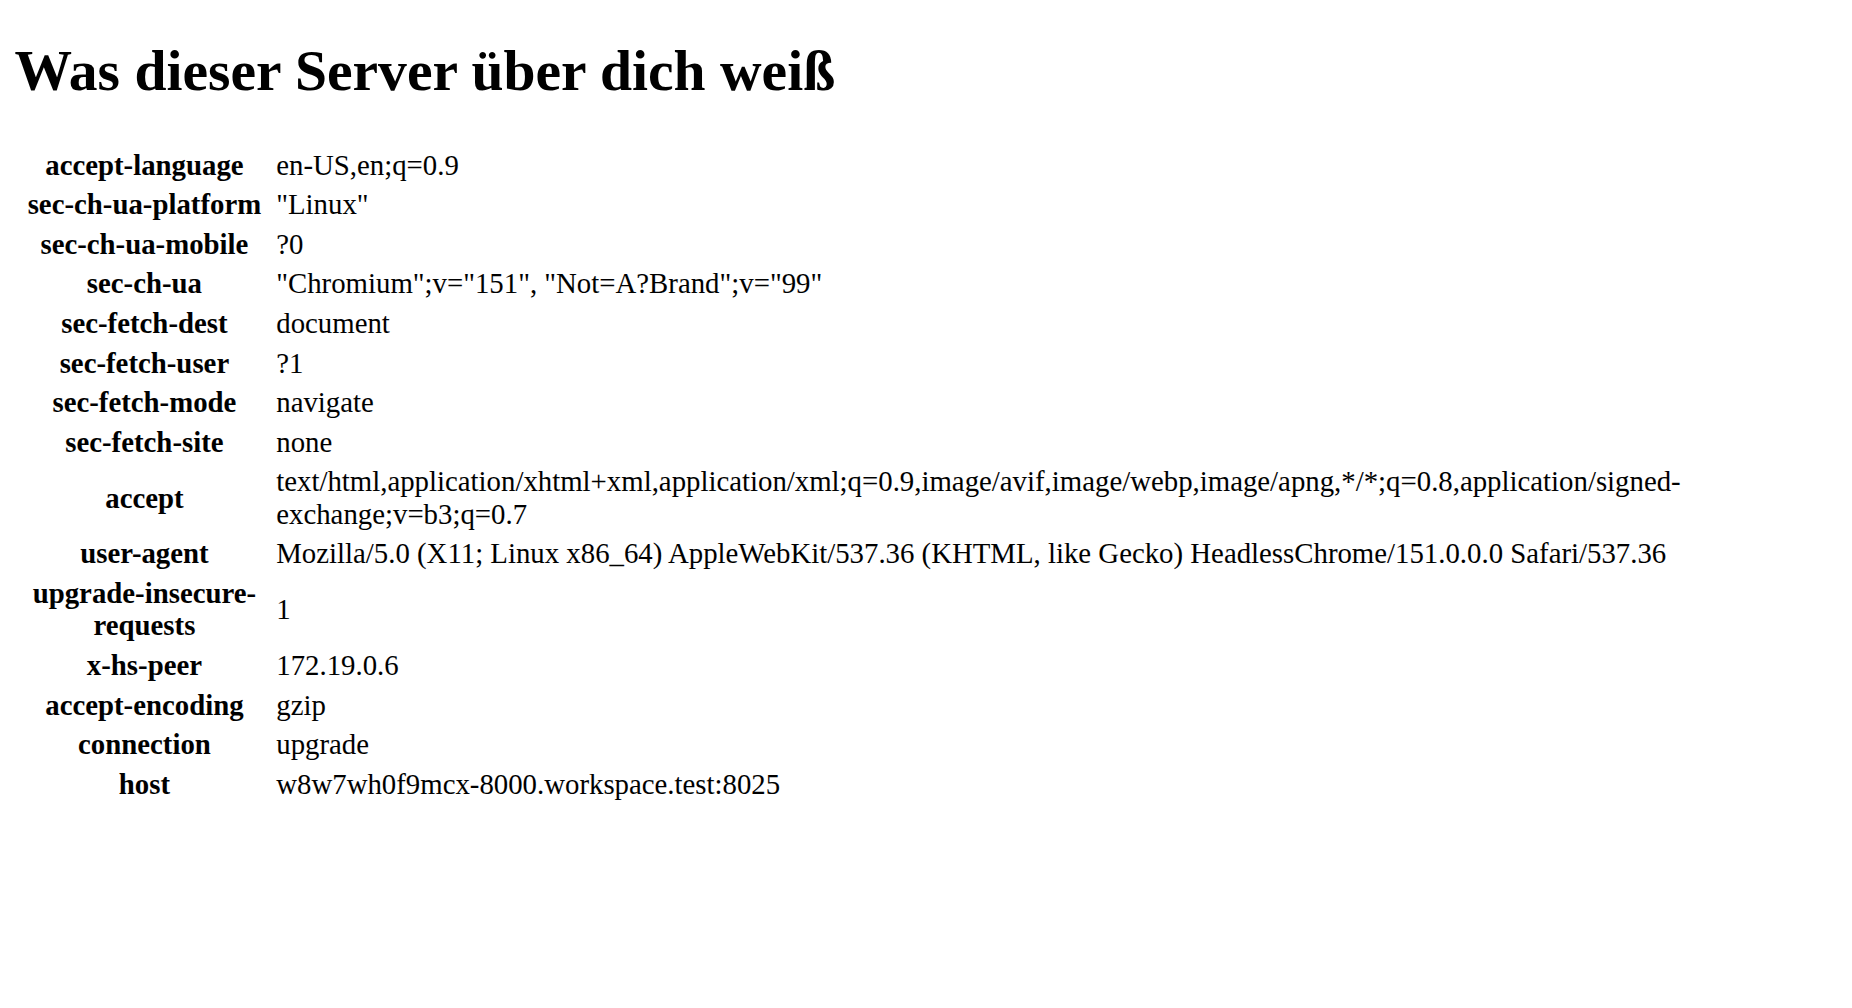
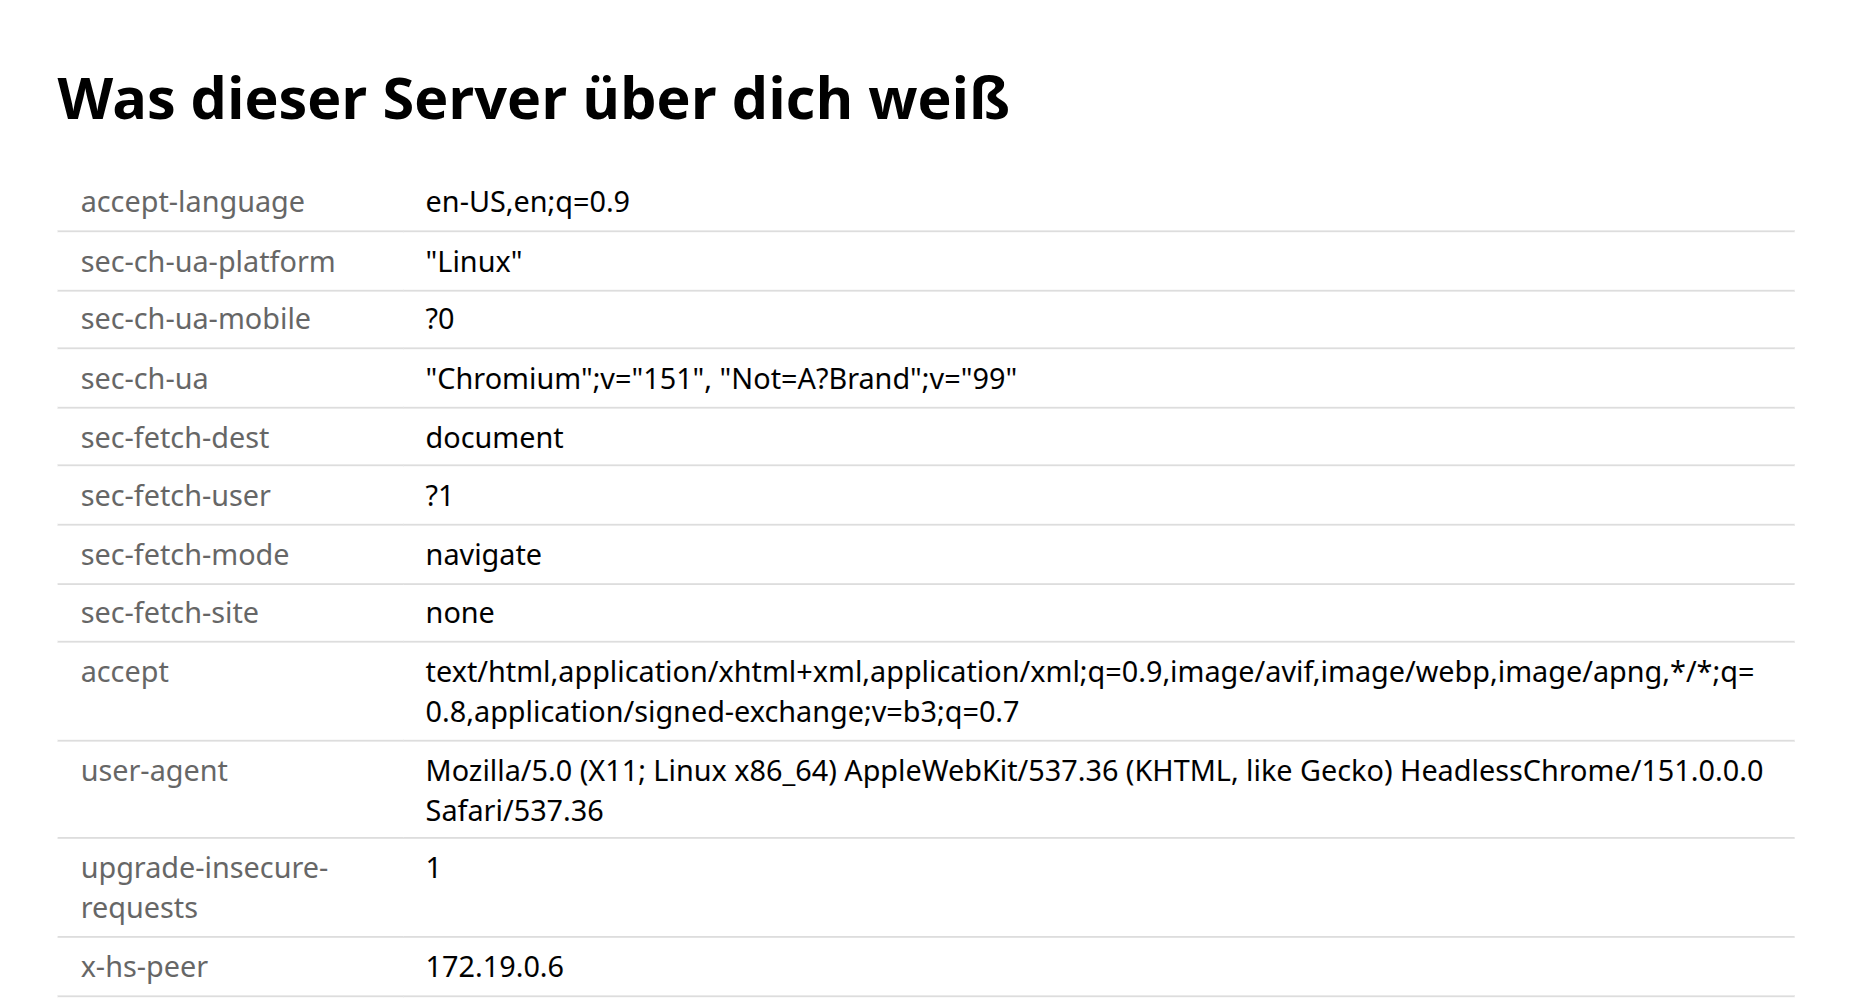
Tracker pages: one plain STYLE for every version (one font, cells top-aligned, row lines, long values wrap), the Kennung without a code font, screenshots recreated

diff --git a/src/content/tracking/fehler/alle-besuche.py b/src/content/tracking/fehler/alle-besuche.py
@@ -32,10 +32,18 @@ def h(text):
     return html.escape(str(text if text is not None else ''))
 
 
+# Ein wenig CSS, damit die Seiten lesbar sind
+STYLE = ('<style>body { font-family: system-ui, sans-serif; margin: 2em; }\n'
+         'table { border-collapse: collapse; }\n'
+         'th, td { padding: 0.3em 0.8em; border-bottom: 1px solid #ddd; text-align: left; vertical-align: top; }\n'
+         'th { color: #666; font-weight: normal; }\n'
+         'td { word-break: break-all; }</style>\n')
+
+
 def headers_page(headers):
     """Die Seite unter /: alle Header, die der Browser geschickt hat"""
     rows = '\n'.join(f'<tr><th>{h(name)}</th><td>{h(value)}</td></tr>' for name, value in headers.items())
-    return ("<!DOCTYPE html><meta charset='utf-8'><title>Was ich über dich weiß</title>\n"
+    return ("<!DOCTYPE html><meta charset='utf-8'><title>Was ich über dich weiß</title>\n" + STYLE +
             f'<h1>Was dieser Server über dich weiß</h1>\n<table>\n{rows}\n</table>\n')
 
 
@@ -84,9 +92,9 @@ def profile_page(visitor, visits, counts, headers):
     pages = '\n'.join(f'<li>{h(page)}</li>' for page, keywords in visits)
     top = sorted(counts.items(), key=lambda pair: -pair[1])[:5]
     interests = '\n'.join(f'<li>{h(keyword)} ({count})</li>' for keyword, count in top)
-    return ("<!DOCTYPE html><meta charset='utf-8'><title>Dein Profil</title>\n"
+    return ("<!DOCTYPE html><meta charset='utf-8'><title>Dein Profil</title>\n" + STYLE +
             '<h1>Dein Profil</h1>\n'
-            f"<p>Deine Kennung: <code>{h(visitor or 'keine')}</code></p>\n"
+            f"<p>Deine Kennung: {h(visitor or 'keine')}</p>\n"
             f"<p>Dein Browser: {h(headers.get('user-agent'))}<br>Deine Sprache: {h(headers.get('accept-language'))}</p>\n"
             f'<h2>Seiten, auf denen du warst</h2>\n<ol>\n{pages}\n</ol>\n'
             f'<h2>Was dich vermutlich interessiert</h2>\n<ol>\n{interests}\n</ol>\n')

diff --git a/src/content/tracking/fehler/jedes-gleichheitszeichen.py b/src/content/tracking/fehler/jedes-gleichheitszeichen.py
@@ -32,10 +32,18 @@ def h(text):
     return html.escape(str(text if text is not None else ''))
 
 
+# Ein wenig CSS, damit die Seiten lesbar sind
+STYLE = ('<style>body { font-family: system-ui, sans-serif; margin: 2em; }\n'
+         'table { border-collapse: collapse; }\n'
+         'th, td { padding: 0.3em 0.8em; border-bottom: 1px solid #ddd; text-align: left; vertical-align: top; }\n'
+         'th { color: #666; font-weight: normal; }\n'
+         'td { word-break: break-all; }</style>\n')
+
+
 def headers_page(headers):
     """Die Seite unter /: alle Header, die der Browser geschickt hat"""
     rows = '\n'.join(f'<tr><th>{h(name)}</th><td>{h(value)}</td></tr>' for name, value in headers.items())
-    return ("<!DOCTYPE html><meta charset='utf-8'><title>Was ich über dich weiß</title>\n"
+    return ("<!DOCTYPE html><meta charset='utf-8'><title>Was ich über dich weiß</title>\n" + STYLE +
             f'<h1>Was dieser Server über dich weiß</h1>\n<table>\n{rows}\n</table>\n')
 
 
@@ -84,9 +92,9 @@ def profile_page(visitor, visits, counts, headers):
     pages = '\n'.join(f'<li>{h(page)}</li>' for page, keywords in visits)
     top = sorted(counts.items(), key=lambda pair: -pair[1])[:5]
     interests = '\n'.join(f'<li>{h(keyword)} ({count})</li>' for keyword, count in top)
-    return ("<!DOCTYPE html><meta charset='utf-8'><title>Dein Profil</title>\n"
+    return ("<!DOCTYPE html><meta charset='utf-8'><title>Dein Profil</title>\n" + STYLE +
             '<h1>Dein Profil</h1>\n'
-            f"<p>Deine Kennung: <code>{h(visitor or 'keine')}</code></p>\n"
+            f"<p>Deine Kennung: {h(visitor or 'keine')}</p>\n"
             f"<p>Dein Browser: {h(headers.get('user-agent'))}<br>Deine Sprache: {h(headers.get('accept-language'))}</p>\n"
             f'<h2>Seiten, auf denen du warst</h2>\n<ol>\n{pages}\n</ol>\n'
             f'<h2>Was dich vermutlich interessiert</h2>\n<ol>\n{interests}\n</ol>\n')

diff --git a/src/content/tracking/fehler/leerzeichen-im-namen.py b/src/content/tracking/fehler/leerzeichen-im-namen.py
@@ -32,10 +32,18 @@ def h(text):
     return html.escape(str(text if text is not None else ''))
 
 
+# Ein wenig CSS, damit die Seiten lesbar sind
+STYLE = ('<style>body { font-family: system-ui, sans-serif; margin: 2em; }\n'
+         'table { border-collapse: collapse; }\n'
+         'th, td { padding: 0.3em 0.8em; border-bottom: 1px solid #ddd; text-align: left; vertical-align: top; }\n'
+         'th { color: #666; font-weight: normal; }\n'
+         'td { word-break: break-all; }</style>\n')
+
+
 def headers_page(headers):
     """Die Seite unter /: alle Header, die der Browser geschickt hat"""
     rows = '\n'.join(f'<tr><th>{h(name)}</th><td>{h(value)}</td></tr>' for name, value in headers.items())
-    return ("<!DOCTYPE html><meta charset='utf-8'><title>Was ich über dich weiß</title>\n"
+    return ("<!DOCTYPE html><meta charset='utf-8'><title>Was ich über dich weiß</title>\n" + STYLE +
             f'<h1>Was dieser Server über dich weiß</h1>\n<table>\n{rows}\n</table>\n')
 
 
@@ -84,9 +92,9 @@ def profile_page(visitor, visits, counts, headers):
     pages = '\n'.join(f'<li>{h(page)}</li>' for page, keywords in visits)
     top = sorted(counts.items(), key=lambda pair: -pair[1])[:5]
     interests = '\n'.join(f'<li>{h(keyword)} ({count})</li>' for keyword, count in top)
-    return ("<!DOCTYPE html><meta charset='utf-8'><title>Dein Profil</title>\n"
+    return ("<!DOCTYPE html><meta charset='utf-8'><title>Dein Profil</title>\n" + STYLE +
             '<h1>Dein Profil</h1>\n'
-            f"<p>Deine Kennung: <code>{h(visitor or 'keine')}</code></p>\n"
+            f"<p>Deine Kennung: {h(visitor or 'keine')}</p>\n"
             f"<p>Dein Browser: {h(headers.get('user-agent'))}<br>Deine Sprache: {h(headers.get('accept-language'))}</p>\n"
             f'<h2>Seiten, auf denen du warst</h2>\n<ol>\n{pages}\n</ol>\n'
             f'<h2>Was dich vermutlich interessiert</h2>\n<ol>\n{interests}\n</ol>\n')

diff --git a/src/content/tracking/fehler/ohne-strip.py b/src/content/tracking/fehler/ohne-strip.py
@@ -32,10 +32,18 @@ def h(text):
     return html.escape(str(text if text is not None else ''))
 
 
+# Ein wenig CSS, damit die Seiten lesbar sind
+STYLE = ('<style>body { font-family: system-ui, sans-serif; margin: 2em; }\n'
+         'table { border-collapse: collapse; }\n'
+         'th, td { padding: 0.3em 0.8em; border-bottom: 1px solid #ddd; text-align: left; vertical-align: top; }\n'
+         'th { color: #666; font-weight: normal; }\n'
+         'td { word-break: break-all; }</style>\n')
+
+
 def headers_page(headers):
     """Die Seite unter /: alle Header, die der Browser geschickt hat"""
     rows = '\n'.join(f'<tr><th>{h(name)}</th><td>{h(value)}</td></tr>' for name, value in headers.items())
-    return ("<!DOCTYPE html><meta charset='utf-8'><title>Was ich über dich weiß</title>\n"
+    return ("<!DOCTYPE html><meta charset='utf-8'><title>Was ich über dich weiß</title>\n" + STYLE +
             f'<h1>Was dieser Server über dich weiß</h1>\n<table>\n{rows}\n</table>\n')
 
 
@@ -83,9 +91,9 @@ def profile_page(visitor, visits, counts, headers):
     pages = '\n'.join(f'<li>{h(page)}</li>' for page, keywords in visits)
     top = sorted(counts.items(), key=lambda pair: -pair[1])[:5]
     interests = '\n'.join(f'<li>{h(keyword)} ({count})</li>' for keyword, count in top)
-    return ("<!DOCTYPE html><meta charset='utf-8'><title>Dein Profil</title>\n"
+    return ("<!DOCTYPE html><meta charset='utf-8'><title>Dein Profil</title>\n" + STYLE +
             '<h1>Dein Profil</h1>\n'
-            f"<p>Deine Kennung: <code>{h(visitor or 'keine')}</code></p>\n"
+            f"<p>Deine Kennung: {h(visitor or 'keine')}</p>\n"
             f"<p>Dein Browser: {h(headers.get('user-agent'))}<br>Deine Sprache: {h(headers.get('accept-language'))}</p>\n"
             f'<h2>Seiten, auf denen du warst</h2>\n<ol>\n{pages}\n</ol>\n'
             f'<h2>Was dich vermutlich interessiert</h2>\n<ol>\n{interests}\n</ol>\n')

diff --git a/src/content/tracking/loesung/tracker.py b/src/content/tracking/loesung/tracker.py
@@ -32,10 +32,18 @@ def h(text):
     return html.escape(str(text if text is not None else ''))
 
 
+# Ein wenig CSS, damit die Seiten lesbar sind
+STYLE = ('<style>body { font-family: system-ui, sans-serif; margin: 2em; }\n'
+         'table { border-collapse: collapse; }\n'
+         'th, td { padding: 0.3em 0.8em; border-bottom: 1px solid #ddd; text-align: left; vertical-align: top; }\n'
+         'th { color: #666; font-weight: normal; }\n'
+         'td { word-break: break-all; }</style>\n')
+
+
 def headers_page(headers):
     """Die Seite unter /: alle Header, die der Browser geschickt hat"""
     rows = '\n'.join(f'<tr><th>{h(name)}</th><td>{h(value)}</td></tr>' for name, value in headers.items())
-    return ("<!DOCTYPE html><meta charset='utf-8'><title>Was ich über dich weiß</title>\n"
+    return ("<!DOCTYPE html><meta charset='utf-8'><title>Was ich über dich weiß</title>\n" + STYLE +
             f'<h1>Was dieser Server über dich weiß</h1>\n<table>\n{rows}\n</table>\n')
 
 
@@ -84,9 +92,9 @@ def profile_page(visitor, visits, counts, headers):
     pages = '\n'.join(f'<li>{h(page)}</li>' for page, keywords in visits)
     top = sorted(counts.items(), key=lambda pair: -pair[1])[:5]
     interests = '\n'.join(f'<li>{h(keyword)} ({count})</li>' for keyword, count in top)
-    return ("<!DOCTYPE html><meta charset='utf-8'><title>Dein Profil</title>\n"
+    return ("<!DOCTYPE html><meta charset='utf-8'><title>Dein Profil</title>\n" + STYLE +
             '<h1>Dein Profil</h1>\n'
-            f"<p>Deine Kennung: <code>{h(visitor or 'keine')}</code></p>\n"
+            f"<p>Deine Kennung: {h(visitor or 'keine')}</p>\n"
             f"<p>Dein Browser: {h(headers.get('user-agent'))}<br>Deine Sprache: {h(headers.get('accept-language'))}</p>\n"
             f'<h2>Seiten, auf denen du warst</h2>\n<ol>\n{pages}\n</ol>\n'
             f'<h2>Was dich vermutlich interessiert</h2>\n<ol>\n{interests}\n</ol>\n')

diff --git a/src/content/tracking/fehler/alle-besuche.rb b/src/content/tracking/fehler/alle-besuche.rb
@@ -27,10 +27,17 @@ def h(text)
   CGI.escapeHTML(text.to_s)
 end
 
+# Ein wenig CSS, damit die Seiten lesbar sind
+STYLE = "<style>body { font-family: system-ui, sans-serif; margin: 2em; }\n" \
+        "table { border-collapse: collapse; }\n" \
+        "th, td { padding: 0.3em 0.8em; border-bottom: 1px solid #ddd; text-align: left; vertical-align: top; }\n" \
+        "th { color: #666; font-weight: normal; }\n" \
+        "td { word-break: break-all; }</style>\n"
+
 # Die Seite unter /: alle Header, die der Browser geschickt hat
 def headers_page(headers)
   rows = headers.map { |name, value| "<tr><th>#{h(name)}</th><td>#{h(value)}</td></tr>" }
-  "<!DOCTYPE html><meta charset='utf-8'><title>Was ich über dich weiß</title>\n" \
+  "<!DOCTYPE html><meta charset='utf-8'><title>Was ich über dich weiß</title>\n#{STYLE}" \
     "<h1>Was dieser Server über dich weiß</h1>\n<table>\n#{rows.join("\n")}\n</table>\n"
 end
 
@@ -81,9 +88,9 @@ def profile_page(visitor, visits, counts, headers)
   interests = counts.sort_by { |keyword, count| -count }.first(5).map do |keyword, count|
     "<li>#{h(keyword)} (#{count})</li>"
   end
-  "<!DOCTYPE html><meta charset='utf-8'><title>Dein Profil</title>\n" \
+  "<!DOCTYPE html><meta charset='utf-8'><title>Dein Profil</title>\n#{STYLE}" \
     "<h1>Dein Profil</h1>\n" \
-    "<p>Deine Kennung: <code>#{h(visitor || 'keine')}</code></p>\n" \
+    "<p>Deine Kennung: #{h(visitor || 'keine')}</p>\n" \
     "<p>Dein Browser: #{h(headers['user-agent'])}<br>Deine Sprache: #{h(headers['accept-language'])}</p>\n" \
     "<h2>Seiten, auf denen du warst</h2>\n<ol>\n#{pages.join("\n")}\n</ol>\n" \
     "<h2>Was dich vermutlich interessiert</h2>\n<ol>\n#{interests.join("\n")}\n</ol>\n"

diff --git a/src/content/tracking/fehler/jedes-gleichheitszeichen.rb b/src/content/tracking/fehler/jedes-gleichheitszeichen.rb
@@ -27,10 +27,17 @@ def h(text)
   CGI.escapeHTML(text.to_s)
 end
 
+# Ein wenig CSS, damit die Seiten lesbar sind
+STYLE = "<style>body { font-family: system-ui, sans-serif; margin: 2em; }\n" \
+        "table { border-collapse: collapse; }\n" \
+        "th, td { padding: 0.3em 0.8em; border-bottom: 1px solid #ddd; text-align: left; vertical-align: top; }\n" \
+        "th { color: #666; font-weight: normal; }\n" \
+        "td { word-break: break-all; }</style>\n"
+
 # Die Seite unter /: alle Header, die der Browser geschickt hat
 def headers_page(headers)
   rows = headers.map { |name, value| "<tr><th>#{h(name)}</th><td>#{h(value)}</td></tr>" }
-  "<!DOCTYPE html><meta charset='utf-8'><title>Was ich über dich weiß</title>\n" \
+  "<!DOCTYPE html><meta charset='utf-8'><title>Was ich über dich weiß</title>\n#{STYLE}" \
     "<h1>Was dieser Server über dich weiß</h1>\n<table>\n#{rows.join("\n")}\n</table>\n"
 end
 
@@ -81,9 +88,9 @@ def profile_page(visitor, visits, counts, headers)
   interests = counts.sort_by { |keyword, count| -count }.first(5).map do |keyword, count|
     "<li>#{h(keyword)} (#{count})</li>"
   end
-  "<!DOCTYPE html><meta charset='utf-8'><title>Dein Profil</title>\n" \
+  "<!DOCTYPE html><meta charset='utf-8'><title>Dein Profil</title>\n#{STYLE}" \
     "<h1>Dein Profil</h1>\n" \
-    "<p>Deine Kennung: <code>#{h(visitor || 'keine')}</code></p>\n" \
+    "<p>Deine Kennung: #{h(visitor || 'keine')}</p>\n" \
     "<p>Dein Browser: #{h(headers['user-agent'])}<br>Deine Sprache: #{h(headers['accept-language'])}</p>\n" \
     "<h2>Seiten, auf denen du warst</h2>\n<ol>\n#{pages.join("\n")}\n</ol>\n" \
     "<h2>Was dich vermutlich interessiert</h2>\n<ol>\n#{interests.join("\n")}\n</ol>\n"

diff --git a/src/content/tracking/fehler/leerzeichen-im-namen.rb b/src/content/tracking/fehler/leerzeichen-im-namen.rb
@@ -27,10 +27,17 @@ def h(text)
   CGI.escapeHTML(text.to_s)
 end
 
+# Ein wenig CSS, damit die Seiten lesbar sind
+STYLE = "<style>body { font-family: system-ui, sans-serif; margin: 2em; }\n" \
+        "table { border-collapse: collapse; }\n" \
+        "th, td { padding: 0.3em 0.8em; border-bottom: 1px solid #ddd; text-align: left; vertical-align: top; }\n" \
+        "th { color: #666; font-weight: normal; }\n" \
+        "td { word-break: break-all; }</style>\n"
+
 # Die Seite unter /: alle Header, die der Browser geschickt hat
 def headers_page(headers)
   rows = headers.map { |name, value| "<tr><th>#{h(name)}</th><td>#{h(value)}</td></tr>" }
-  "<!DOCTYPE html><meta charset='utf-8'><title>Was ich über dich weiß</title>\n" \
+  "<!DOCTYPE html><meta charset='utf-8'><title>Was ich über dich weiß</title>\n#{STYLE}" \
     "<h1>Was dieser Server über dich weiß</h1>\n<table>\n#{rows.join("\n")}\n</table>\n"
 end
 
@@ -81,9 +88,9 @@ def profile_page(visitor, visits, counts, headers)
   interests = counts.sort_by { |keyword, count| -count }.first(5).map do |keyword, count|
     "<li>#{h(keyword)} (#{count})</li>"
   end
-  "<!DOCTYPE html><meta charset='utf-8'><title>Dein Profil</title>\n" \
+  "<!DOCTYPE html><meta charset='utf-8'><title>Dein Profil</title>\n#{STYLE}" \
     "<h1>Dein Profil</h1>\n" \
-    "<p>Deine Kennung: <code>#{h(visitor || 'keine')}</code></p>\n" \
+    "<p>Deine Kennung: #{h(visitor || 'keine')}</p>\n" \
     "<p>Dein Browser: #{h(headers['user-agent'])}<br>Deine Sprache: #{h(headers['accept-language'])}</p>\n" \
     "<h2>Seiten, auf denen du warst</h2>\n<ol>\n#{pages.join("\n")}\n</ol>\n" \
     "<h2>Was dich vermutlich interessiert</h2>\n<ol>\n#{interests.join("\n")}\n</ol>\n"

diff --git a/src/content/tracking/fehler/ohne-strip.rb b/src/content/tracking/fehler/ohne-strip.rb
@@ -27,10 +27,17 @@ def h(text)
   CGI.escapeHTML(text.to_s)
 end
 
+# Ein wenig CSS, damit die Seiten lesbar sind
+STYLE = "<style>body { font-family: system-ui, sans-serif; margin: 2em; }\n" \
+        "table { border-collapse: collapse; }\n" \
+        "th, td { padding: 0.3em 0.8em; border-bottom: 1px solid #ddd; text-align: left; vertical-align: top; }\n" \
+        "th { color: #666; font-weight: normal; }\n" \
+        "td { word-break: break-all; }</style>\n"
+
 # Die Seite unter /: alle Header, die der Browser geschickt hat
 def headers_page(headers)
   rows = headers.map { |name, value| "<tr><th>#{h(name)}</th><td>#{h(value)}</td></tr>" }
-  "<!DOCTYPE html><meta charset='utf-8'><title>Was ich über dich weiß</title>\n" \
+  "<!DOCTYPE html><meta charset='utf-8'><title>Was ich über dich weiß</title>\n#{STYLE}" \
     "<h1>Was dieser Server über dich weiß</h1>\n<table>\n#{rows.join("\n")}\n</table>\n"
 end
 
@@ -80,9 +87,9 @@ def profile_page(visitor, visits, counts, headers)
   interests = counts.sort_by { |keyword, count| -count }.first(5).map do |keyword, count|
     "<li>#{h(keyword)} (#{count})</li>"
   end
-  "<!DOCTYPE html><meta charset='utf-8'><title>Dein Profil</title>\n" \
+  "<!DOCTYPE html><meta charset='utf-8'><title>Dein Profil</title>\n#{STYLE}" \
     "<h1>Dein Profil</h1>\n" \
-    "<p>Deine Kennung: <code>#{h(visitor || 'keine')}</code></p>\n" \
+    "<p>Deine Kennung: #{h(visitor || 'keine')}</p>\n" \
     "<p>Dein Browser: #{h(headers['user-agent'])}<br>Deine Sprache: #{h(headers['accept-language'])}</p>\n" \
     "<h2>Seiten, auf denen du warst</h2>\n<ol>\n#{pages.join("\n")}\n</ol>\n" \
     "<h2>Was dich vermutlich interessiert</h2>\n<ol>\n#{interests.join("\n")}\n</ol>\n"

diff --git a/src/content/tracking/loesung/tracker.rb b/src/content/tracking/loesung/tracker.rb
@@ -27,10 +27,17 @@ def h(text)
   CGI.escapeHTML(text.to_s)
 end
 
+# Ein wenig CSS, damit die Seiten lesbar sind
+STYLE = "<style>body { font-family: system-ui, sans-serif; margin: 2em; }\n" \
+        "table { border-collapse: collapse; }\n" \
+        "th, td { padding: 0.3em 0.8em; border-bottom: 1px solid #ddd; text-align: left; vertical-align: top; }\n" \
+        "th { color: #666; font-weight: normal; }\n" \
+        "td { word-break: break-all; }</style>\n"
+
 # Die Seite unter /: alle Header, die der Browser geschickt hat
 def headers_page(headers)
   rows = headers.map { |name, value| "<tr><th>#{h(name)}</th><td>#{h(value)}</td></tr>" }
-  "<!DOCTYPE html><meta charset='utf-8'><title>Was ich über dich weiß</title>\n" \
+  "<!DOCTYPE html><meta charset='utf-8'><title>Was ich über dich weiß</title>\n#{STYLE}" \
     "<h1>Was dieser Server über dich weiß</h1>\n<table>\n#{rows.join("\n")}\n</table>\n"
 end
 
@@ -81,9 +88,9 @@ def profile_page(visitor, visits, counts, headers)
   interests = counts.sort_by { |keyword, count| -count }.first(5).map do |keyword, count|
     "<li>#{h(keyword)} (#{count})</li>"
   end
-  "<!DOCTYPE html><meta charset='utf-8'><title>Dein Profil</title>\n" \
+  "<!DOCTYPE html><meta charset='utf-8'><title>Dein Profil</title>\n#{STYLE}" \
     "<h1>Dein Profil</h1>\n" \
-    "<p>Deine Kennung: <code>#{h(visitor || 'keine')}</code></p>\n" \
+    "<p>Deine Kennung: #{h(visitor || 'keine')}</p>\n" \
     "<p>Dein Browser: #{h(headers['user-agent'])}<br>Deine Sprache: #{h(headers['accept-language'])}</p>\n" \
     "<h2>Seiten, auf denen du warst</h2>\n<ol>\n#{pages.join("\n")}\n</ol>\n" \
     "<h2>Was dich vermutlich interessiert</h2>\n<ol>\n#{interests.join("\n")}\n</ol>\n"

diff --git a/src/content/tracking/stufen/1.py b/src/content/tracking/stufen/1.py
@@ -21,10 +21,18 @@ def h(text):
     return html.escape(str(text if text is not None else ''))
 
 
+# Ein wenig CSS, damit die Seiten lesbar sind
+STYLE = ('<style>body { font-family: system-ui, sans-serif; margin: 2em; }\n'
+         'table { border-collapse: collapse; }\n'
+         'th, td { padding: 0.3em 0.8em; border-bottom: 1px solid #ddd; text-align: left; vertical-align: top; }\n'
+         'th { color: #666; font-weight: normal; }\n'
+         'td { word-break: break-all; }</style>\n')
+
+
 def headers_page(headers):
     """Die Seite unter /: alle Header, die der Browser geschickt hat"""
     rows = '\n'.join(f'<tr><th>{h(name)}</th><td>{h(value)}</td></tr>' for name, value in headers.items())
-    return ("<!DOCTYPE html><meta charset='utf-8'><title>Was ich über dich weiß</title>\n"
+    return ("<!DOCTYPE html><meta charset='utf-8'><title>Was ich über dich weiß</title>\n" + STYLE +
             f'<h1>Was dieser Server über dich weiß</h1>\n<table>\n{rows}\n</table>\n')
 
 

diff --git a/src/content/tracking/stufen/2.py b/src/content/tracking/stufen/2.py
@@ -31,10 +31,18 @@ def h(text):
     return html.escape(str(text if text is not None else ''))
 
 
+# Ein wenig CSS, damit die Seiten lesbar sind
+STYLE = ('<style>body { font-family: system-ui, sans-serif; margin: 2em; }\n'
+         'table { border-collapse: collapse; }\n'
+         'th, td { padding: 0.3em 0.8em; border-bottom: 1px solid #ddd; text-align: left; vertical-align: top; }\n'
+         'th { color: #666; font-weight: normal; }\n'
+         'td { word-break: break-all; }</style>\n')
+
+
 def headers_page(headers):
     """Die Seite unter /: alle Header, die der Browser geschickt hat"""
     rows = '\n'.join(f'<tr><th>{h(name)}</th><td>{h(value)}</td></tr>' for name, value in headers.items())
-    return ("<!DOCTYPE html><meta charset='utf-8'><title>Was ich über dich weiß</title>\n"
+    return ("<!DOCTYPE html><meta charset='utf-8'><title>Was ich über dich weiß</title>\n" + STYLE +
             f'<h1>Was dieser Server über dich weiß</h1>\n<table>\n{rows}\n</table>\n')
 
 
